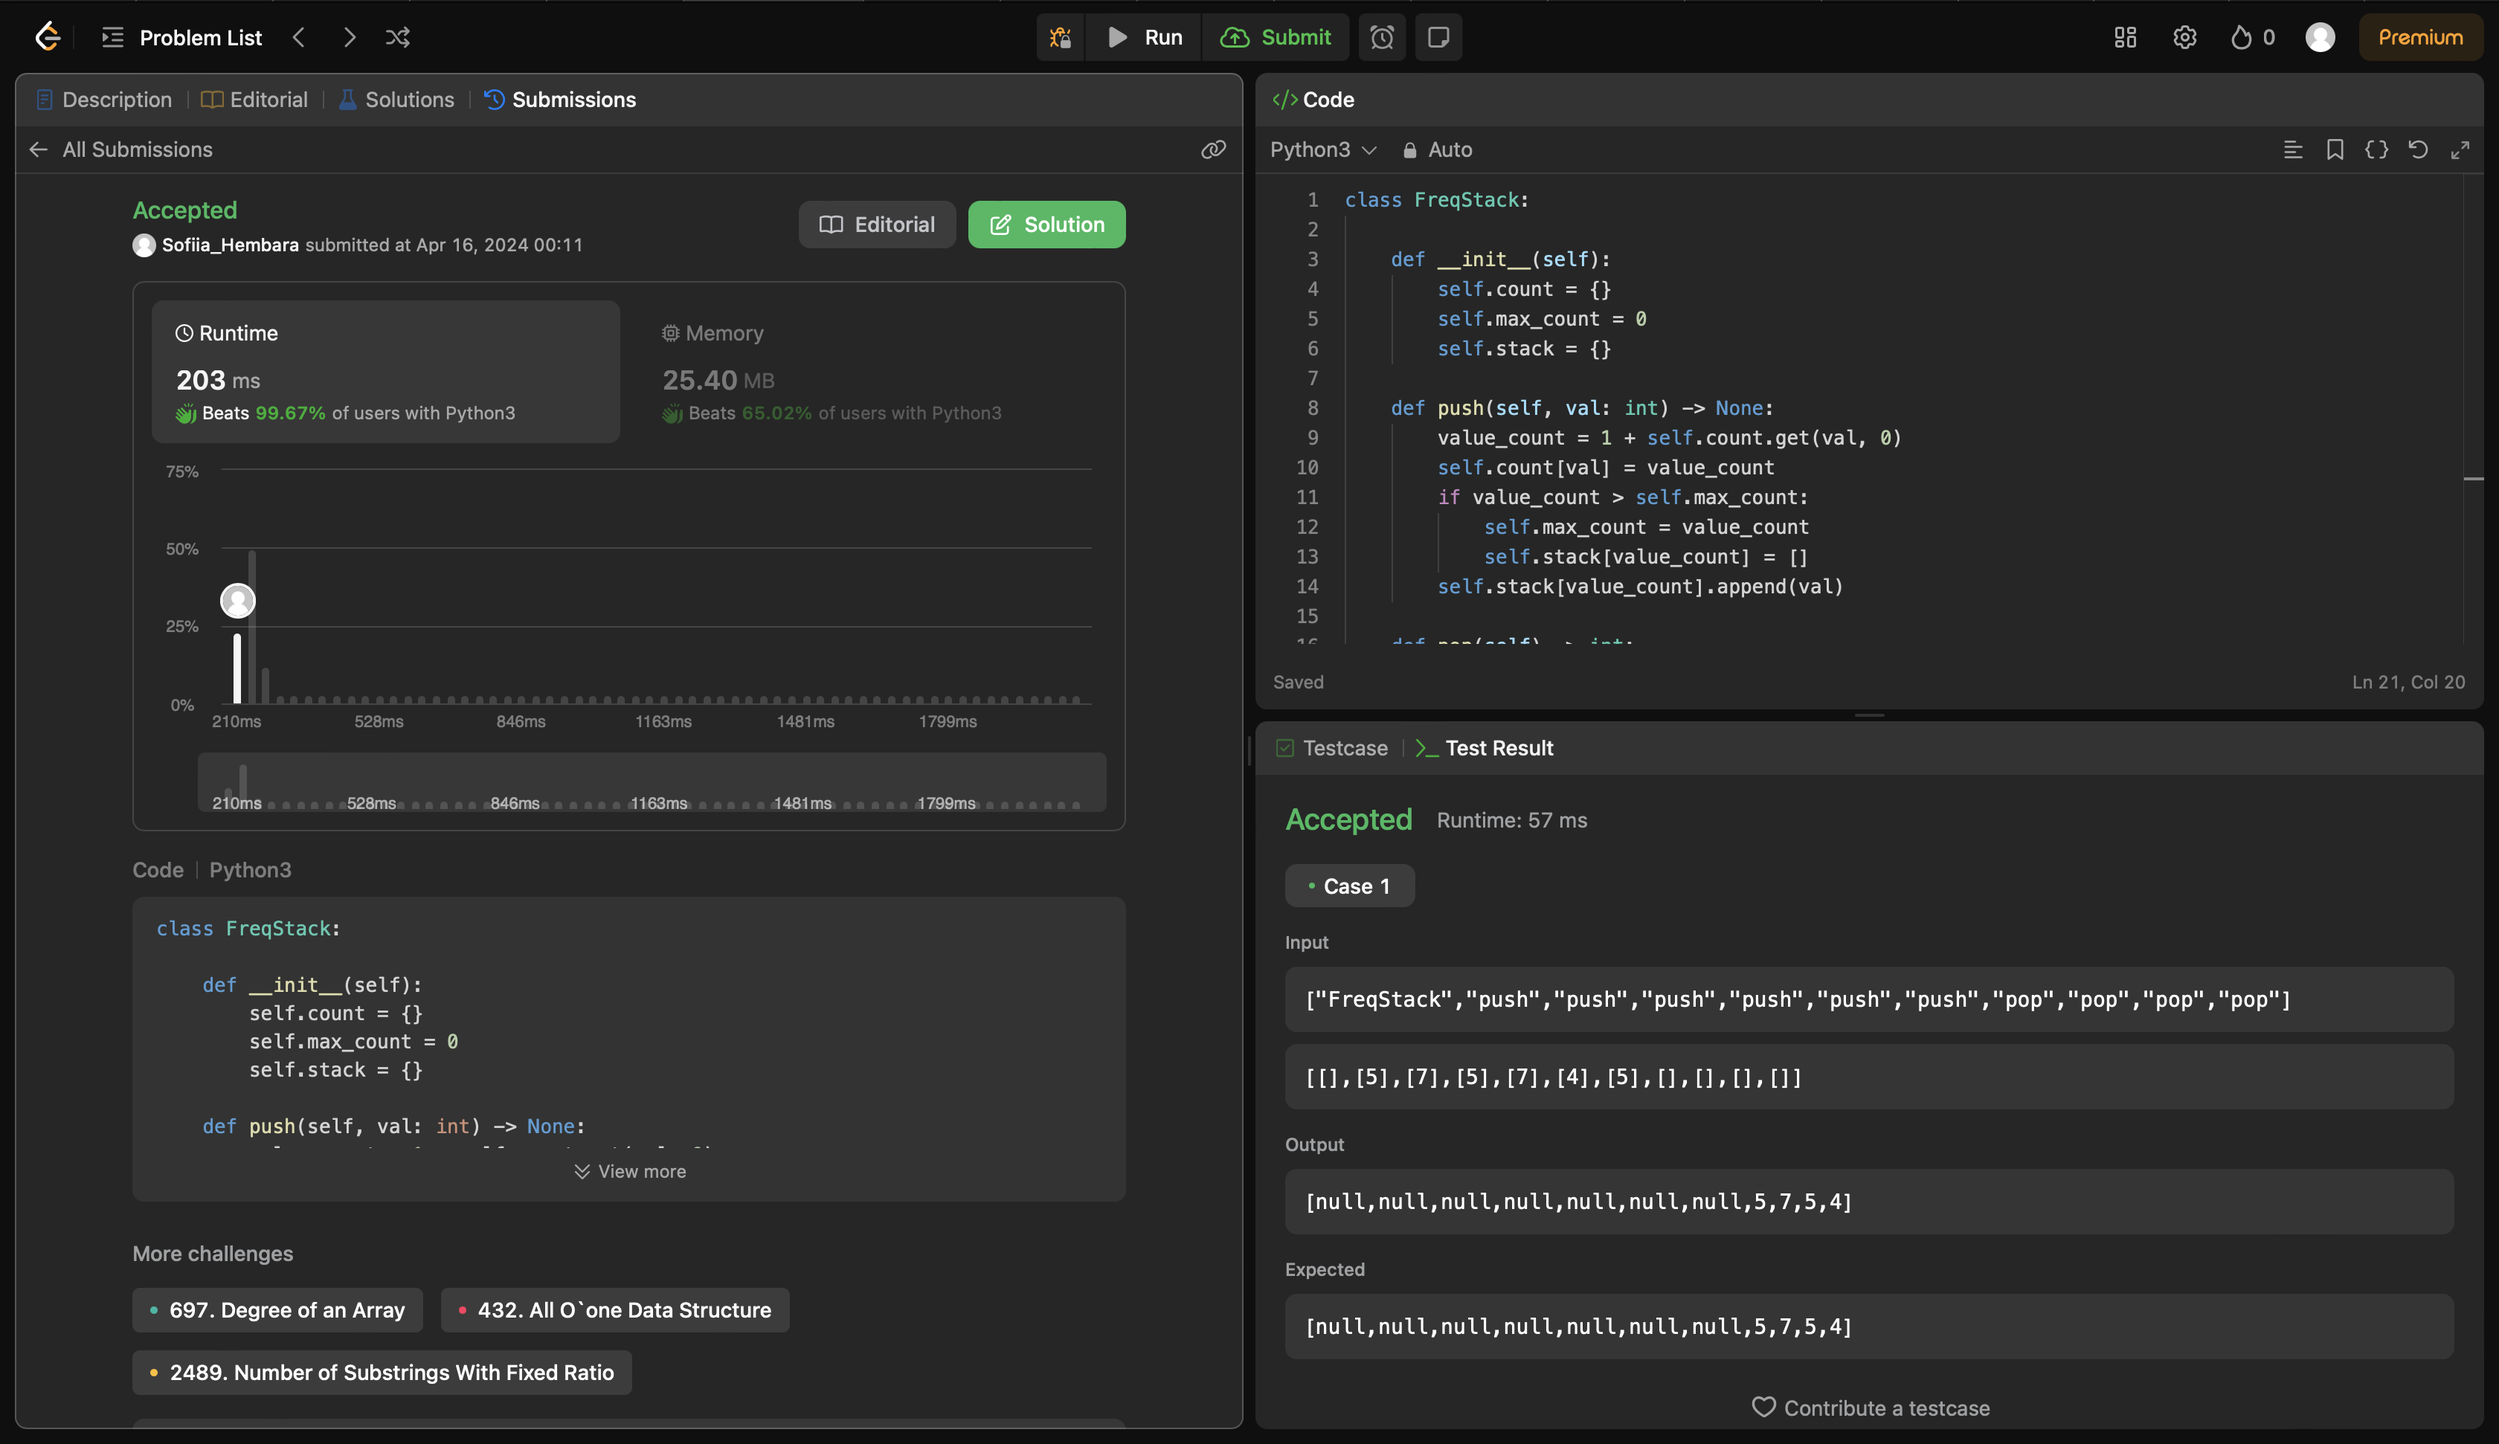
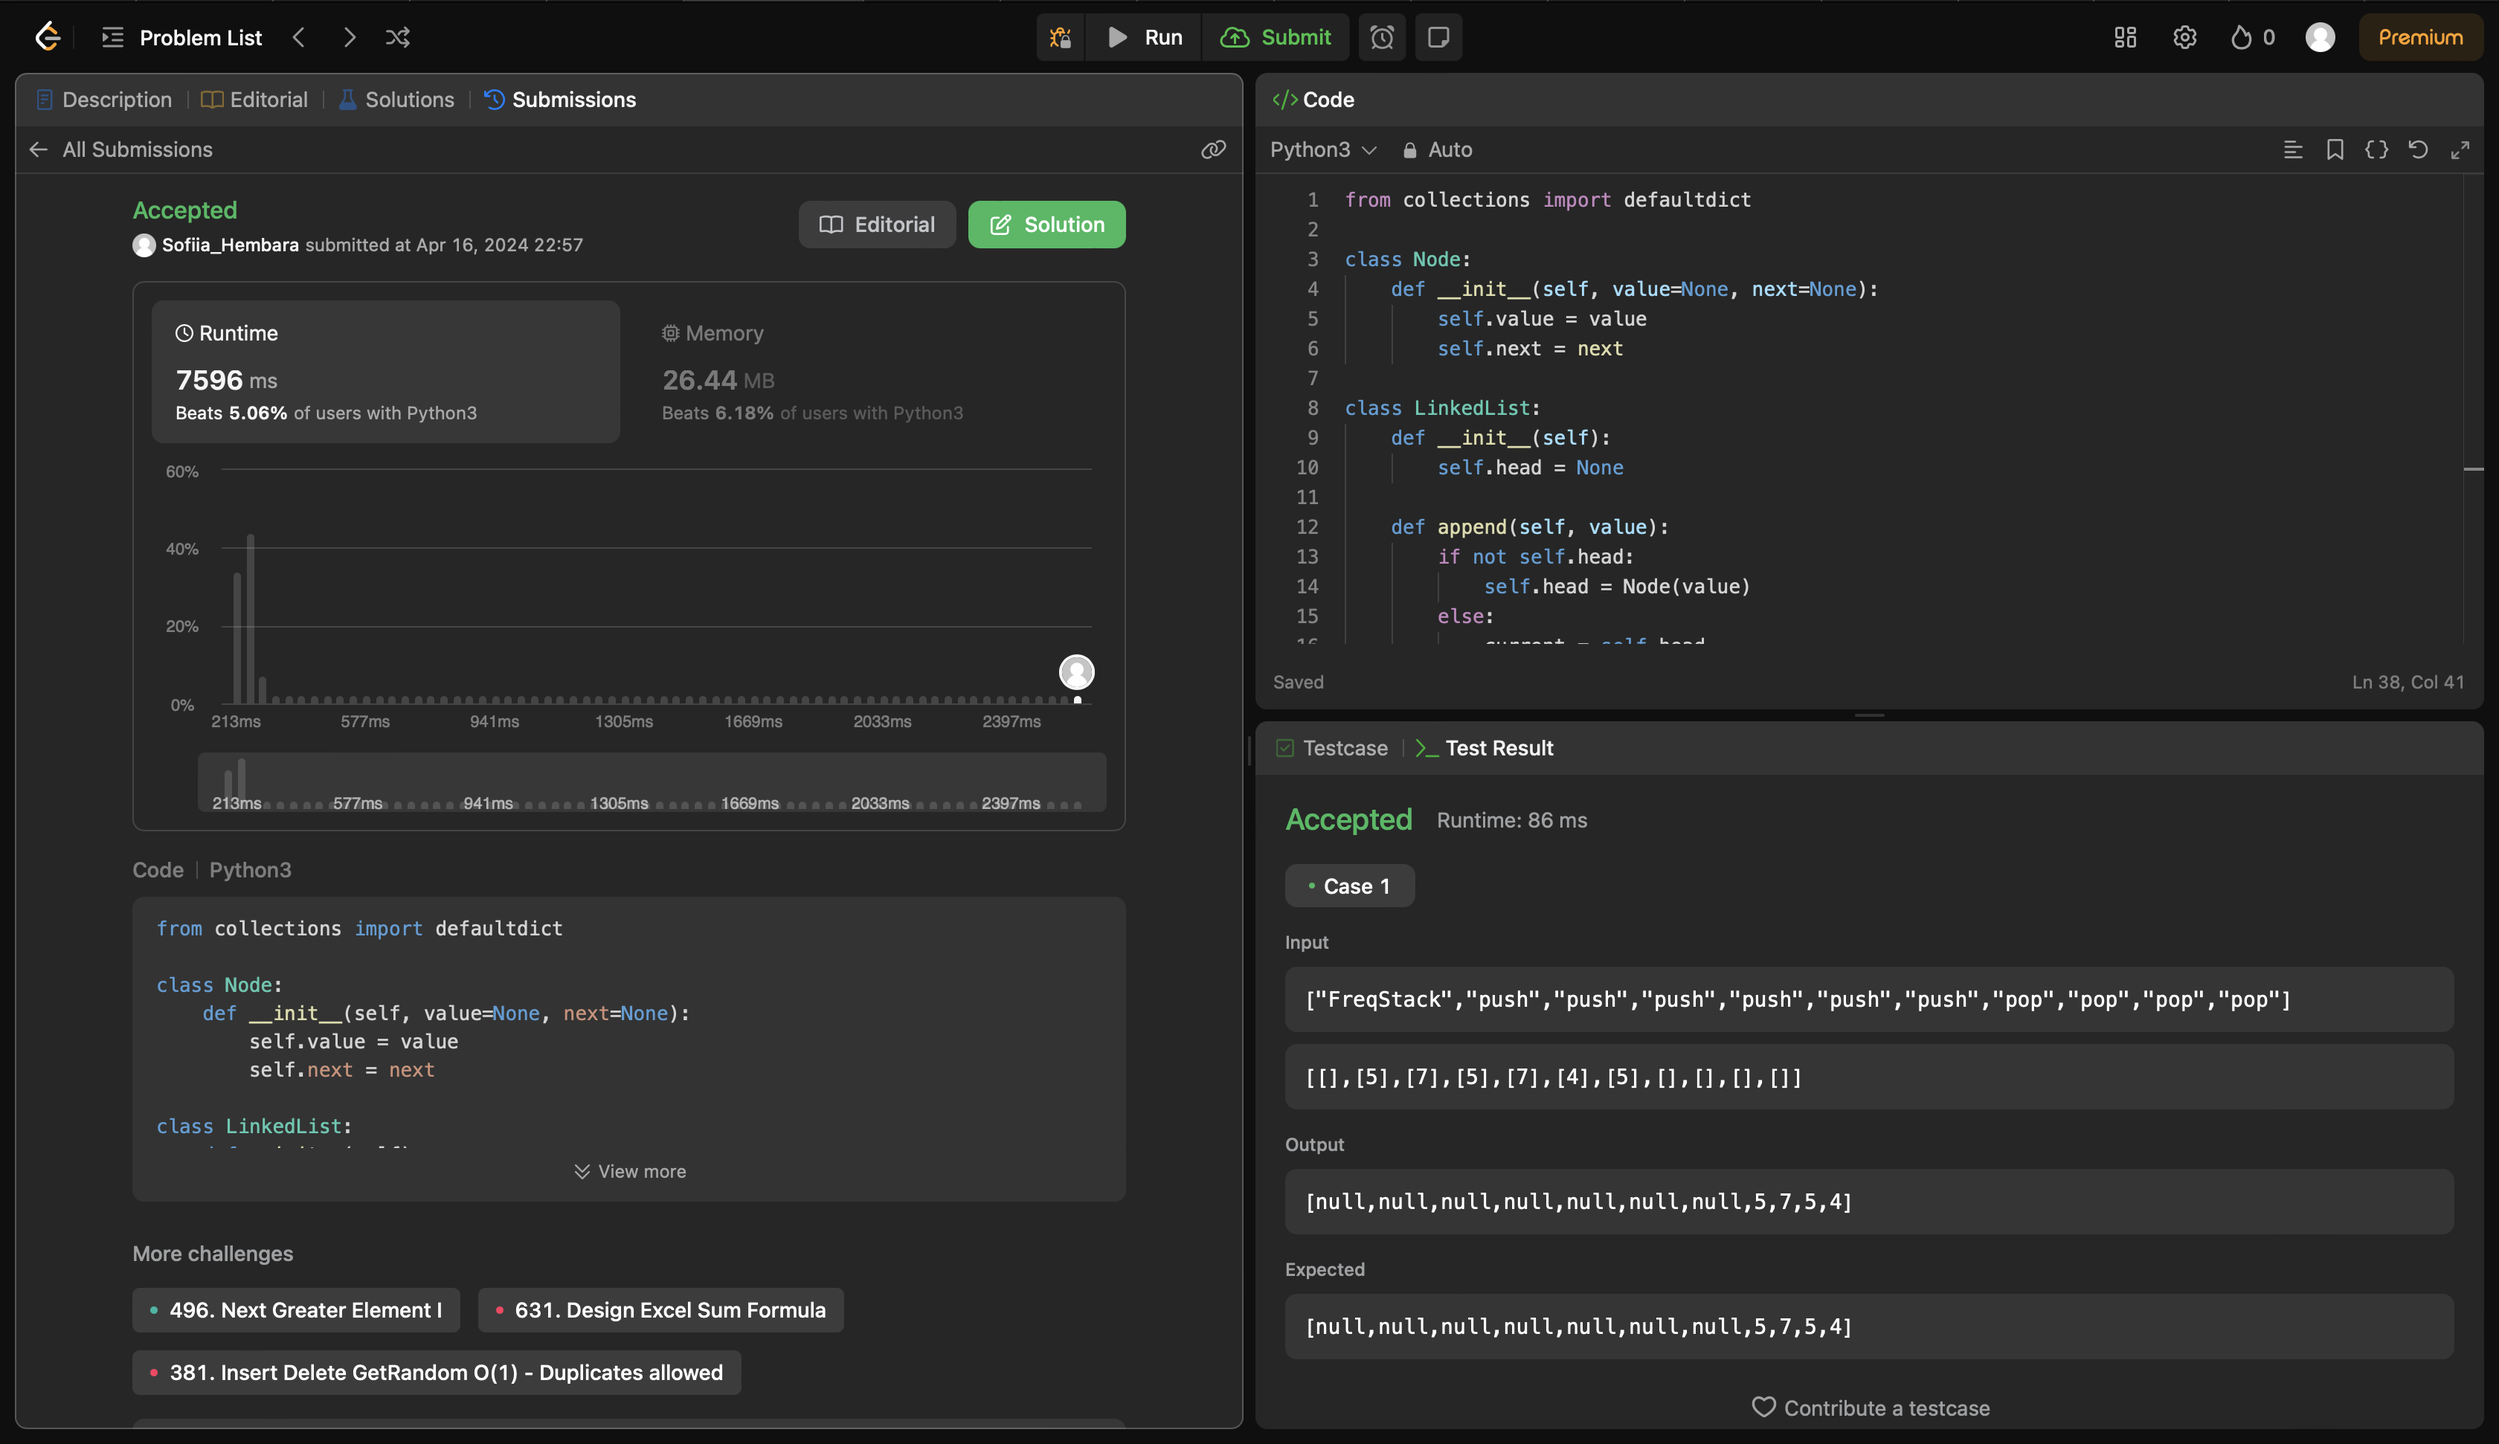
change the solution

diff --git a/Maximum Frequency Stack/answer3.py b/Maximum Frequency Stack/answer3.py
@@ -1,21 +1,52 @@
-class FreqStack:
+from collections import defaultdict
 
+class Node:
+    def __init__(self, value=None, next=None):
+        self.value = value
+        self.next = next
+
+class LinkedList:
     def __init__(self):
-        self.count = {}
-        self.max_count = 0
-        self.stack = {}
+        self.head = None
 
-    def push(self, val: int) -> None:
-        value_count = 1 + self.count.get(val, 0)
-        self.count[val] = value_count
-        if value_count > self.max_count:
-            self.max_count = value_count
-            self.stack[value_count] = []
-        self.stack[value_count].append(val)
+    def append(self, value):
+        if not self.head:
+            self.head = Node(value)
+        else:
+            current = self.head
+            while current.next:
+                current = current.next
+            current.next = Node(value)
+
+    def remove(self, node_to_remove):
+        if not self.head:
+            return
+        if self.head == node_to_remove:
+            self.head = self.head.next
+            return
+        current = self.head
+        while current.next and current.next != node_to_remove:
+            current = current.next
+        if current.next:
+            current.next = current.next.next
+
+class FreqStack:
+    def __init__(self):
+        self.freq = defaultdict(int)
+        self.group = defaultdict(list)
+        self.max_freq = 0
+        self.all_elements = LinkedList()
+
+    def push(self, x: int) -> None:
+        self.freq[x] += 1
+        if self.freq[x] > self.max_freq:
+            self.max_freq = self.freq[x]
+        self.group[self.freq[x]].append(x)
+        self.all_elements.append(x)
 
     def pop(self) -> int:
-        res = self.stack[self.max_count].pop()
-        self.count[res] -= 1
-        if not self.stack[self.max_count]:
-            self.max_count -= 1
-        return res 
+        x = self.group[self.max_freq].pop()
+        self.freq[x] -= 1
+        if not self.group[self.max_freq]:
+            self.max_freq -= 1
+        return x
